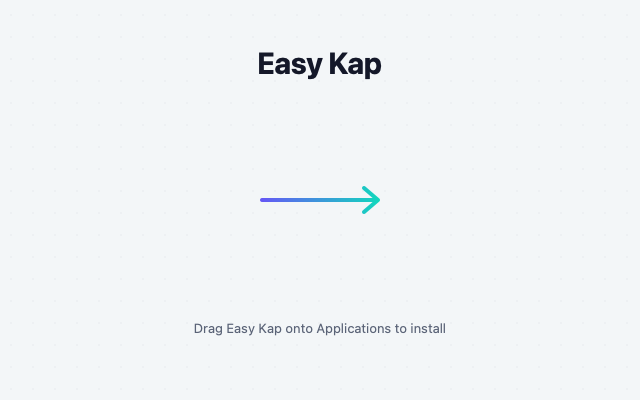
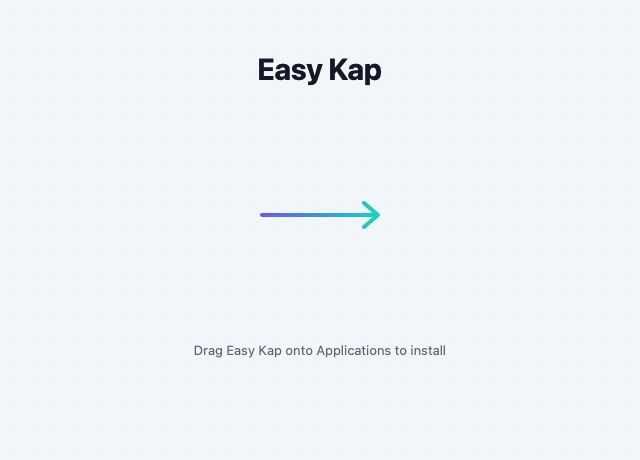
fix: launch again, and sign with Developer ID when secrets are set
0.1.2 quit at launch: with the hardened runtime on, dyld's library
validation refused Sparkle.framework because an ad-hoc app has no team to
share with it. The hardened runtime is now off for ad-hoc builds.

When the Developer ID certificate secrets exist, the release workflow
imports the certificate, re-signs Sparkle and the app with the hardened
runtime (Tools/sign-app.sh), signs and notarizes the DMG
(Tools/notarize-dmg.sh), then writes the Sparkle signature over the
stapled file. Without them, releases stay ad-hoc signed.

The DMG window is also taller so its bottom text has room.

Claude-Session: https://claude.ai/code/session_01CLoRQ9G2CumwLDReopXMMF

diff --git a/Tools/make-dmg-background.swift b/Tools/make-dmg-background.swift
@@ -3,13 +3,13 @@
 // Tools/make-dmg.sh combines them into one multi-resolution TIFF for create-dmg.
 // Run: swift Tools/make-dmg-background.swift
 //
-// The layout matches the create-dmg options in Tools/make-dmg.sh: a 640 × 400 pt window with the app icon
-// centered at (160, 200) and the Applications shortcut at (480, 200), measured from the top left.
+// The layout matches the create-dmg options in Tools/make-dmg.sh: a 640 × 460 pt window with the app icon
+// centered at (160, 215) and the Applications shortcut at (480, 215), measured from the top left.
 import AppKit
 
 let width: CGFloat = 640
-let height: CGFloat = 400
-let iconCenterY: CGFloat = 200 // from the top, as create-dmg measures
+let height: CGFloat = 460
+let iconCenterY: CGFloat = 215 // from the top, as create-dmg measures
 let violet = NSColor(srgbRed: 0.392, green: 0.345, blue: 0.961, alpha: 1)
 let teal = NSColor(srgbRed: 0.071, green: 0.839, blue: 0.745, alpha: 1)
 let ink = NSColor(srgbRed: 0.078, green: 0.094, blue: 0.161, alpha: 1)
@@ -52,8 +52,9 @@ func render(scale: CGFloat) -> Data {
     attributed.draw(in: NSRect(x: 0, y: height - centerY - lineHeight / 2, width: width, height: lineHeight + 2))
   }
 
-  text("Easy Kap", size: 30, weight: .bold, color: ink, fromTop: 64, kern: -0.4)
-  text("Drag Easy Kap onto Applications to install", size: 13, weight: .regular, color: muted, fromTop: 330)
+  text("Easy Kap", size: 30, weight: .bold, color: ink, fromTop: 70, kern: -0.4)
+  // Kept well clear of the bottom, where Finder may draw its path and status bars.
+  text("Drag Easy Kap onto Applications to install", size: 13, weight: .regular, color: muted, fromTop: 352)
 
   // The arrow between the icons, in Kap's ring gradient.
   let arrowY = height - iconCenterY
@@ -79,4 +80,4 @@ let directory = URL(fileURLWithPath: #filePath).deletingLastPathComponent().appe
 try FileManager.default.createDirectory(at: directory, withIntermediateDirectories: true)
 try render(scale: 1).write(to: directory.appendingPathComponent("background.png"))
 try render(scale: 2).write(to: directory.appendingPathComponent("background@2x.png"))
-print("✓ Tools/dmg/background.png (640×400) and background@2x.png (1280×800)")
+print("✓ Tools/dmg/background.png (640×460) and background@2x.png (1280×920)")

diff --git a/README.md b/README.md
@@ -63,7 +63,7 @@ The app icon is drawn by `Tools/render-icon.swift` (`swift Tools/render-icon.swi
 
 ## Releases
 
-Add the version's notes to [CHANGELOG.md](CHANGELOG.md) first. Pushing a tag such as `v0.1.2` then runs [the release workflow](.github/workflows/release.yml) on GitHub Actions: it stamps the version into the app, builds `EasyKap.dmg` with `Tools/make-dmg.sh`, signs it for [Sparkle](https://sparkle-project.org), and publishes it with an `appcast.xml` as a release. Installed copies find the update through that appcast. The asset names stay fixed, so `releases/latest/download/EasyKap.dmg` always points at the newest build.
+Add the version's notes to [CHANGELOG.md](CHANGELOG.md) first. Pushing a tag such as `v0.1.2` then runs [the release workflow](.github/workflows/release.yml) on GitHub Actions: it stamps the version into the app, builds `EasyKap.dmg` with `Tools/make-dmg.sh`, signs it for [Sparkle](https://sparkle-project.org), and publishes it with an `appcast.xml` as a release. Installed copies find the update through that appcast. With the `APPLE_CERTIFICATE_P12_BASE64`, `APPLE_CERTIFICATE_PASSWORD`, `APPLE_SIGNING_IDENTITY`, `APPLE_ID`, `APPLE_APP_SPECIFIC_PASSWORD` and `APPLE_TEAM_ID` secrets set, the workflow also signs the app with Developer ID and notarizes the disk image (`Tools/sign-app.sh`, `Tools/notarize-dmg.sh`). The asset names stay fixed, so `releases/latest/download/EasyKap.dmg` always points at the newest build.
 
 ## Website
 

diff --git a/CLAUDE.md b/CLAUDE.md
@@ -20,3 +20,7 @@ Every release must have notes in `CHANGELOG.md`:
 3. Commit, then push the tag `vx.y.z`.
 
 The release workflow fails when the changelog section is missing. It publishes `EasyKap.dmg` and a Sparkle `appcast.xml` signed with the `SPARKLE_PRIVATE_KEY` secret; the app checks `releases/latest/download/appcast.xml`, so keep both asset names. The same key lives in the login Keychain under the Sparkle account `easy-kap`. Losing it means existing installs can no longer update.
+
+Developer ID signing and notarization run when these repository secrets exist; without them the build is ad-hoc signed:
+`APPLE_CERTIFICATE_P12_BASE64`, `APPLE_CERTIFICATE_PASSWORD`, `APPLE_SIGNING_IDENTITY`, `APPLE_ID`, `APPLE_APP_SPECIFIC_PASSWORD`, `APPLE_TEAM_ID`.
+Keep `ENABLE_HARDENED_RUNTIME` off in `project.yml`: an ad-hoc build with it on can't load Sparkle and quits at launch. `Tools/sign-app.sh` adds the hardened runtime when it re-signs with Developer ID.

diff --git a/CHANGELOG.md b/CHANGELOG.md
@@ -6,6 +6,14 @@ Every release needs a section here before its tag is pushed: the release workflo
 
 ## [Unreleased]
 
+### Fixed
+
+- Easy Kap 0.1.2 quit as soon as it opened. macOS refused to load the update framework into an ad-hoc signed app running with the hardened runtime.
+
+### Changed
+
+- The disk image window is taller, so the install instructions sit clear of the window's bottom edge.
+
 ## [0.1.2] - 2026-10-23
 
 ### Added
